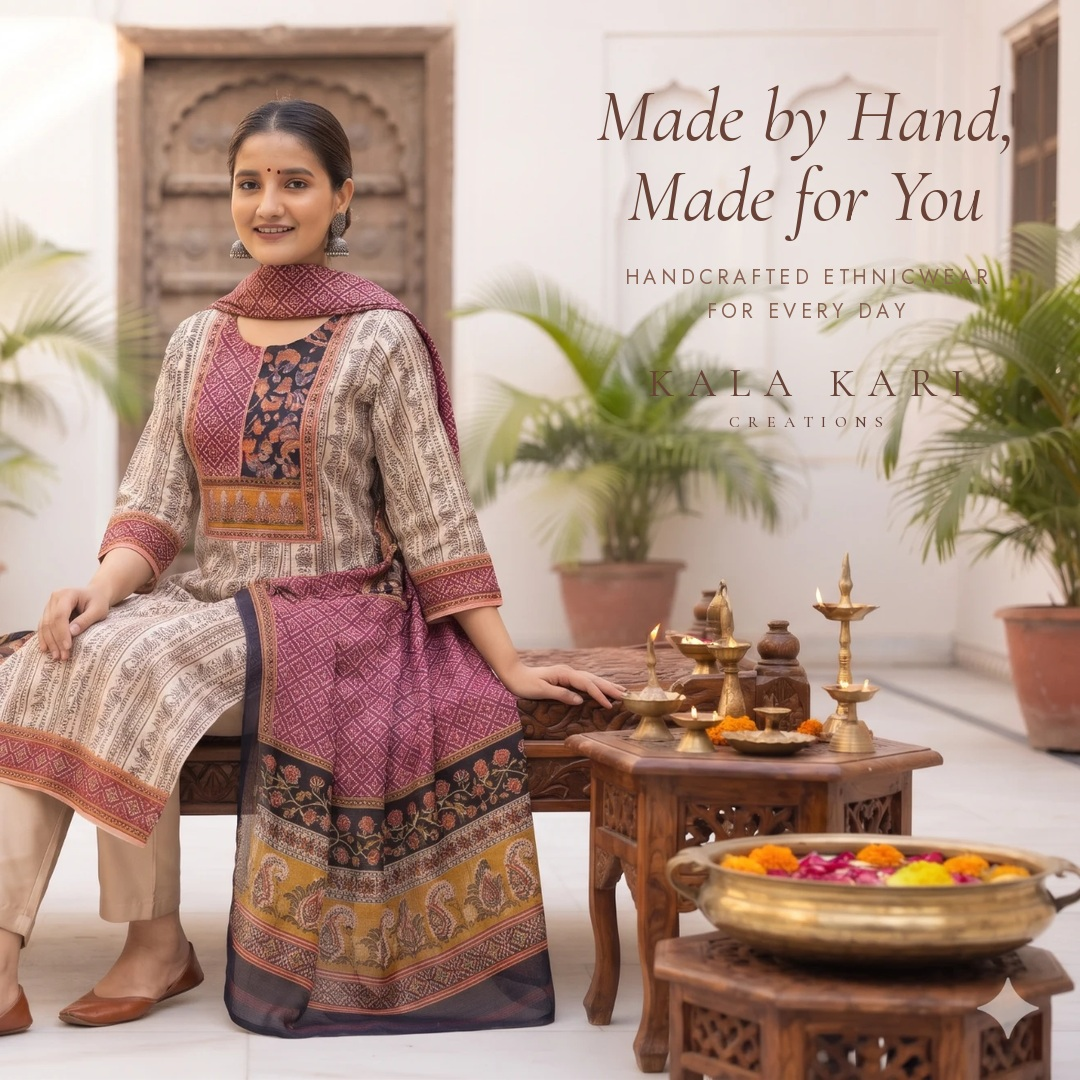
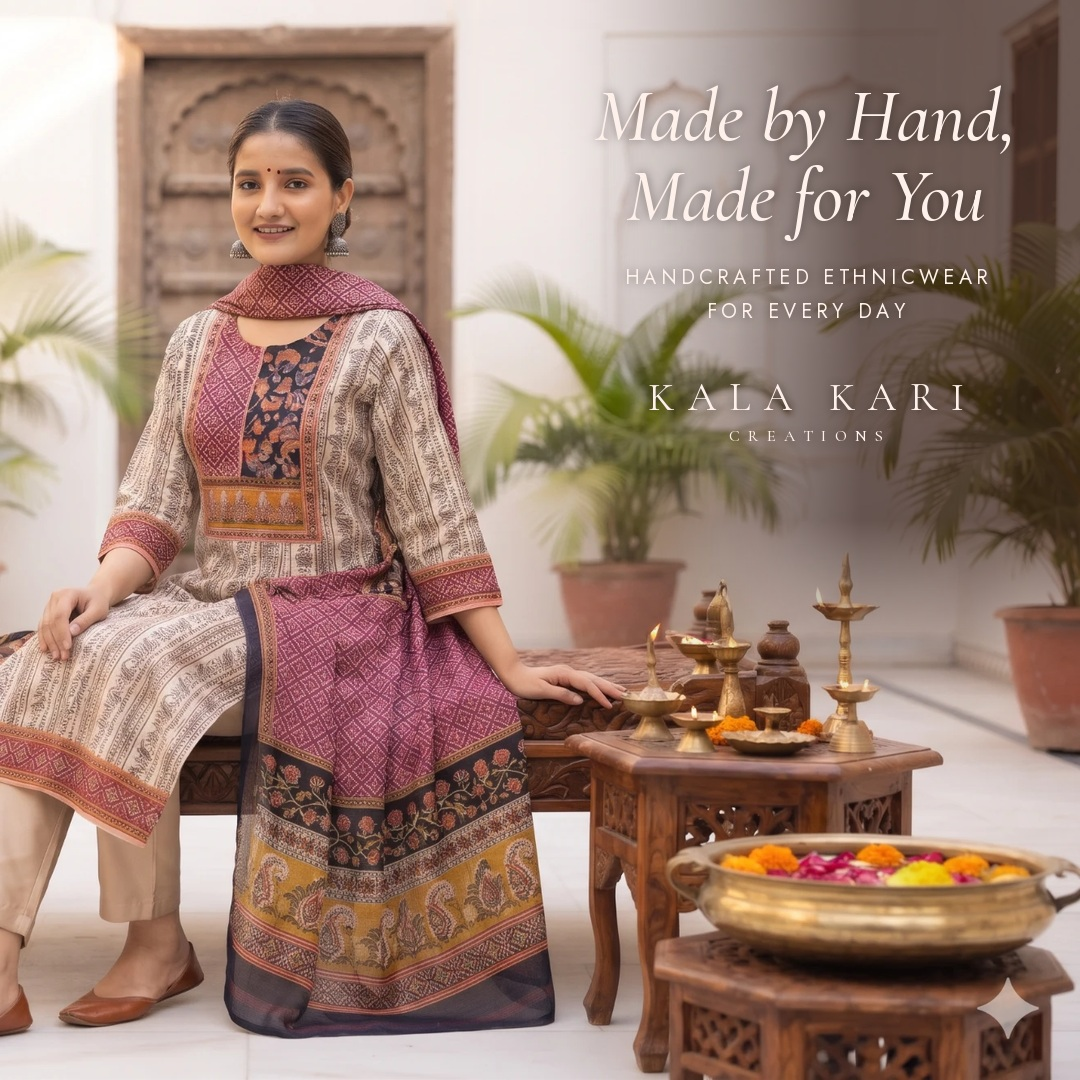
Everyday edit carousel: cream text on soft edge gradients for clear contrast
Claude-Session: https://claude.ai/code/session_01LZv7UTnsZcwjx4RXmrtg3u

Changed region(s): [[0.55, 0.0, 1.0, 0.6111]]

diff --git a/marketing/posts/everyday_edit_carousel.py b/marketing/posts/everyday_edit_carousel.py
@@ -23,7 +23,7 @@ import os
 import sys
 
 import numpy as np
-from PIL import Image, ImageDraw, ImageEnhance, ImageFont
+from PIL import Image, ImageDraw, ImageEnhance, ImageFilter, ImageFont
 
 S = 1080
 CREAM = (254, 240, 234)
@@ -76,6 +76,27 @@ def haze(im, cx, cy, rx, ry, strength):
     return Image.fromarray(np.clip(a, 0, 255).astype(np.uint8))
 
 
+def shade(im, fx, fy, x0, x1, y0, y1, strength, tint=(46, 26, 20)):
+    """A soft dark gradient over the empty text side only.
+    fx(x) and fy(y) ramp from 1 (full) to 0 between the given pixel bounds, so the model stays untouched."""
+    y, x = np.mgrid[0:im.height, 0:im.width].astype(np.float32)
+    gx = np.clip((x - x0) / (x1 - x0), 0, 1) if fx == "right" else np.clip((x1 - x) / (x1 - x0), 0, 1)
+    gy = np.clip((y1 - y) / (y1 - y0), 0, 1) if fy == "top" else np.ones_like(y)
+    k = strength * (gx * gy) ** 1.4
+    a = np.asarray(im).astype(np.float32)
+    a = a * (1 - k[..., None]) + np.array(tint, np.float32) * k[..., None]
+    return Image.fromarray(np.clip(a, 0, 255).astype(np.uint8))
+
+
+def soft_shadow(img, draw_fn):
+    lay = Image.new("RGBA", img.size, (0, 0, 0, 0))
+    draw_fn(ImageDraw.Draw(lay), (30, 16, 12, 120))
+    img.alpha_composite(lay.filter(ImageFilter.GaussianBlur(5)))
+    lay = Image.new("RGBA", img.size, (0, 0, 0, 0))
+    draw_fn(ImageDraw.Draw(lay), CREAM + (255,))
+    img.alpha_composite(lay)
+
+
 def spaced(d, xy, s, f, fill, spacing, anchor="m"):
     widths = [d.textlength(c, font=f) for c in s]
     total = sum(widths) + spacing * (len(s) - 1)
@@ -94,35 +115,38 @@ def brand(d, cx, y, fonts, fill, size):
 
 
 def slide1(fonts, ph):
-    # landscape photo: square crop with the model on the left half
+    # landscape photo: square crop with the model on the left half; dark gradient from the right edge, top part
     im = crop(ph, "1-ajrakh-seated", (.335, 0, 1.0, 1.0), S, S)
-    im = haze(im, 806, 260, 240, 240, .38)
+    im = shade(im, "right", "top", 560, 860, 520, 720, .66)
     img = im.convert("RGBA")
-    d = ImageDraw.Draw(img)
     cx = 806
-    f = font(fonts, "cormorant-garamond", 400, 76, "italic")
-    d.text((cx, 140), "Made by Hand,", font=f, fill=WOOD, anchor="ms")
-    d.text((cx, 220), "Made for You", font=f, fill=WOOD, anchor="ms")
-    fs = font(fonts, "jost", 400, 20)
-    spaced(d, (cx, 284), "HANDCRAFTED ETHNICWEAR", fs, WOOD_SOFT, 4.5)
-    spaced(d, (cx, 318), "FOR EVERY DAY", fs, WOOD_SOFT, 4.5)
-    brand(d, cx, 396, fonts, WOOD, 40)
+
+    def draw(d, col):
+        f = font(fonts, "cormorant-garamond", 500, 76, "italic")
+        d.text((cx, 140), "Made by Hand,", font=f, fill=col, anchor="ms")
+        d.text((cx, 220), "Made for You", font=f, fill=col, anchor="ms")
+        fs = font(fonts, "jost", 400, 20)
+        spaced(d, (cx, 284), "HANDCRAFTED ETHNICWEAR", fs, col, 4.5)
+        spaced(d, (cx, 318), "FOR EVERY DAY", fs, col, 4.5)
+        brand(d, cx, 410, fonts, col, 40)
+    soft_shadow(img, draw)
     return img
 
 
 def slide2(fonts, ph):
-    # portrait photo: a square from the top-left part puts the model right of centre
+    # portrait photo: the model right of centre; dark gradient from the left edge, top part
     im = crop(ph, "2-pink-anarkali", (0, .02, .84, .65), S, S)
-    im = haze(im, 190, 165, 250, 170, .55)
-    im = haze(im, 190, 395, 190, 80, .55)
+    im = shade(im, "left", "top", 60, 470, 430, 640, .66)
     img = im.convert("RGBA")
-    d = ImageDraw.Draw(img)
-    f = font(fonts, "cormorant-garamond", 500, 52)
-    fi = font(fonts, "cormorant-garamond", 500, 52, "italic")
-    d.text((54, 112), "Easy elegance,", font=fi, fill=ROSE, anchor="ls")
-    d.text((54, 170), "from morning", font=f, fill=ROSE, anchor="ls")
-    d.text((54, 228), "to evening.", font=f, fill=ROSE, anchor="ls")
-    brand(d, 190, 388, fonts, ROSE, 40)
+
+    def draw(d, col):
+        fi = font(fonts, "cormorant-garamond", 500, 52, "italic")
+        f = font(fonts, "cormorant-garamond", 500, 52)
+        d.text((54, 112), "Easy elegance,", font=fi, fill=col, anchor="ls")
+        d.text((54, 170), "from morning", font=f, fill=col, anchor="ls")
+        d.text((54, 228), "to evening.", font=f, fill=col, anchor="ls")
+        brand(d, 190, 380, fonts, col, 40)
+    soft_shadow(img, draw)
     return img
 
 
@@ -138,10 +162,11 @@ def slide3(fonts, ph):
     m = np.zeros(a.shape[:2], np.uint8)
     cv2.circle(m, (470, 1000), 44, 255, -1)
     right = Image.fromarray(cv2.cvtColor(cv2.inpaint(a, m, 9, cv2.INPAINT_TELEA), cv2.COLOR_BGR2RGB))
+    left = shade(left, "left", "top", 40, 330, 110, 220, .8)
     img.paste(left, (0, 0))
     img.paste(right, (540, 0))
+    soft_shadow(img, lambda d, col: brand(d, 112, 74, fonts, col, 28))
     d = ImageDraw.Draw(img)
-    brand(d, 112, 74, fonts, MAROON, 26)
     d.text((S - 44, 978), "Every Stitch,", font=font(fonts, "cormorant-garamond", 500, 62), fill=CREAM,
            anchor="rs")
     d.text((S - 44, 1044), "a Story", font=font(fonts, "cormorant-garamond", 500, 62, "italic"), fill=CREAM,
